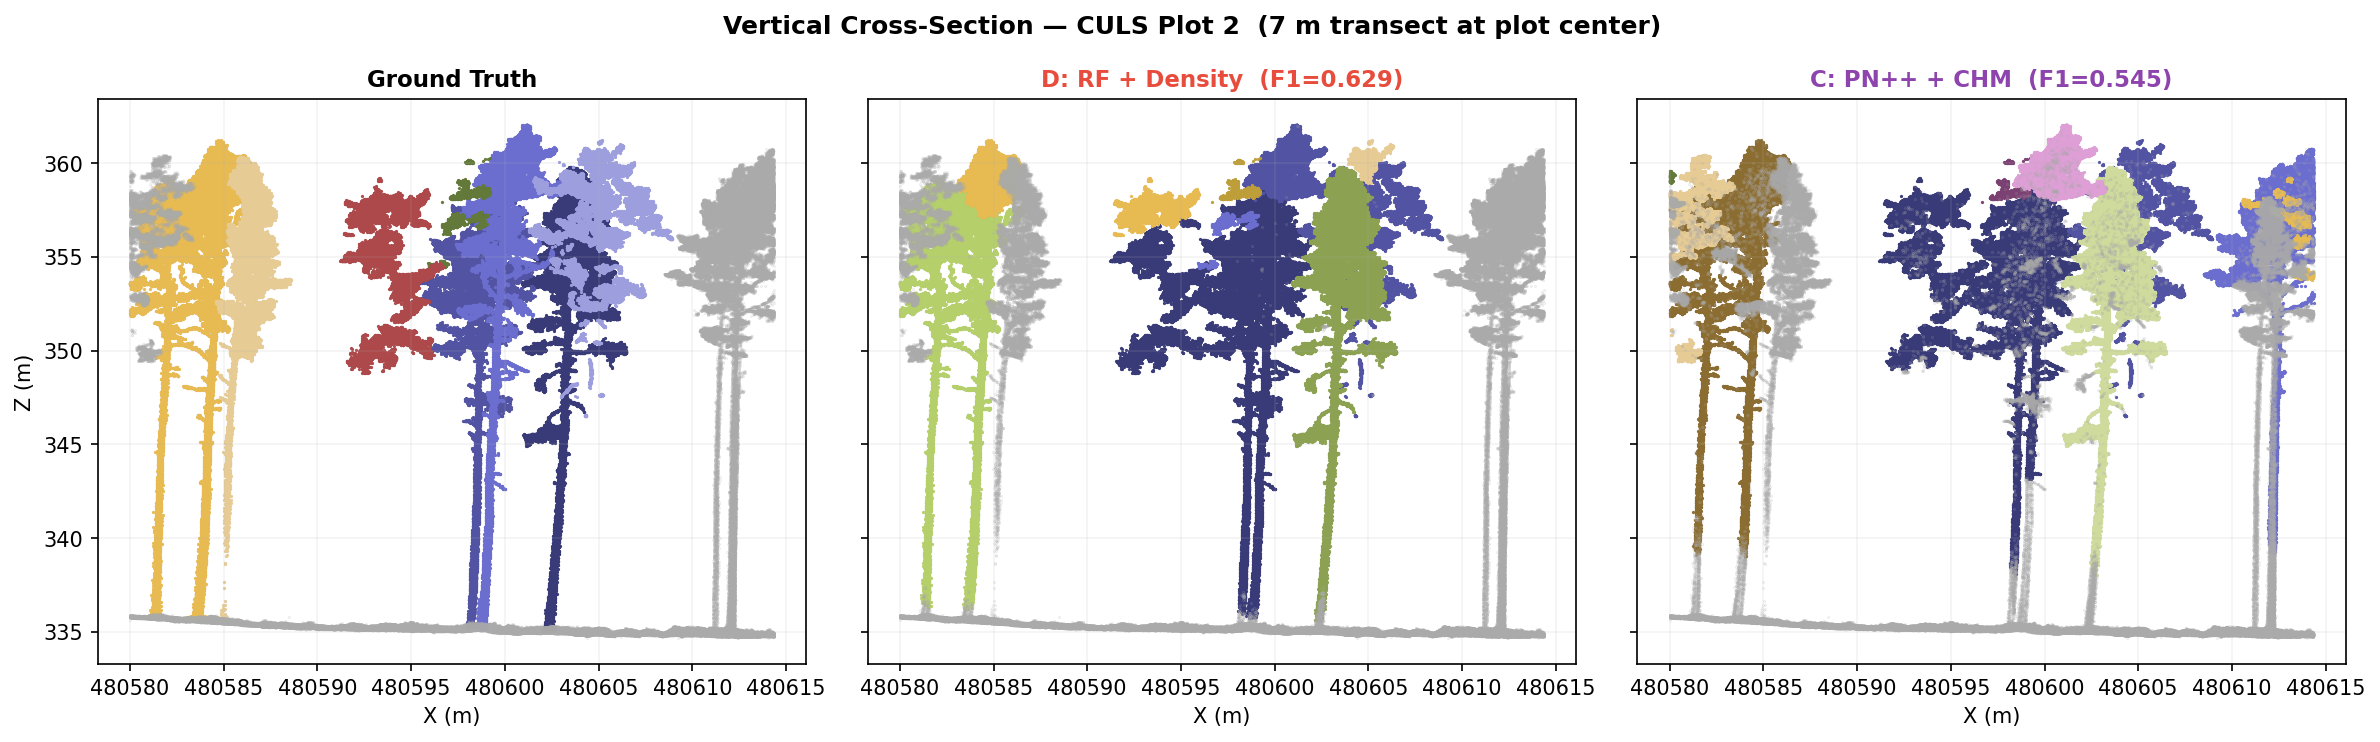
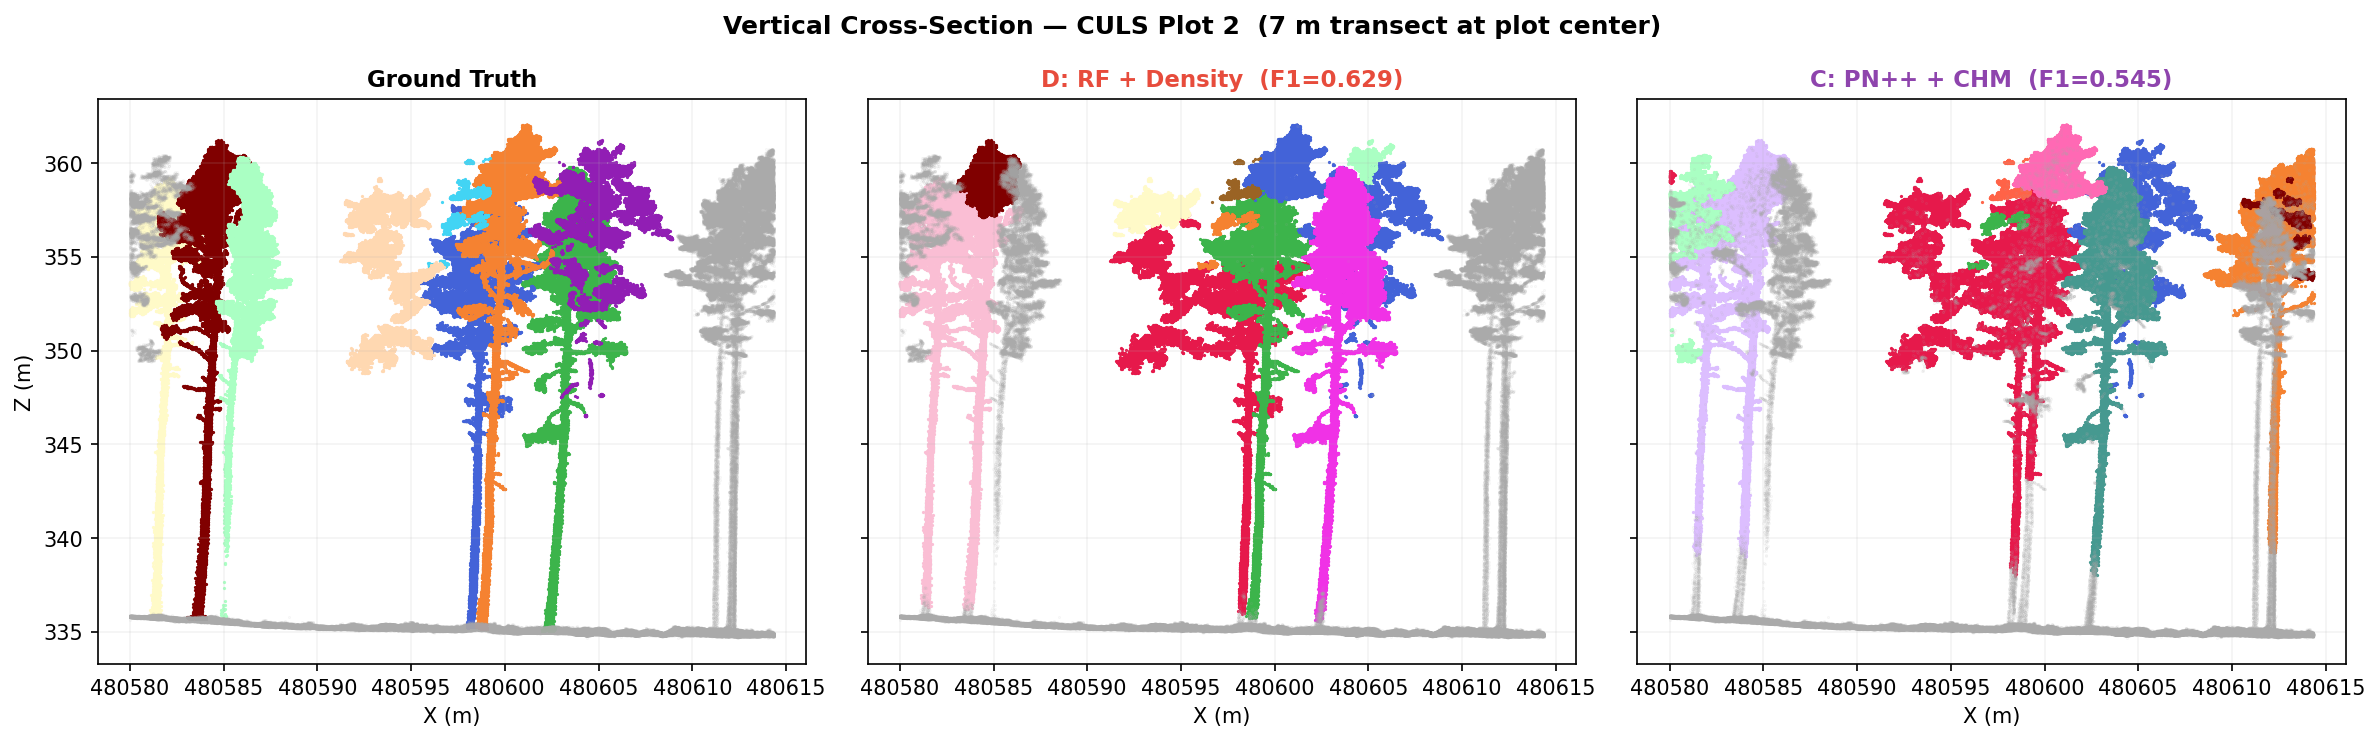
fix: replace scatter-based top-view with pixel render for fig_v1/v2/v5
Instance panels appeared grey due to three bugs:
- Millions of semi-transparent scatter points blending to grey
- ListedColormap called with integer indices > 1 (collapsing to first colors)
- Background grey scatter drawn on top of instance colors

Now uses a 2D pixel-based renderer (_render_topview) that assigns each
0.2m cell the color of the dominant instance. Also replaces CMAP_INST
with an explicit high-contrast 30-color palette (_BRIGHT_COLORS).

diff --git a/generate_visual_figures.py b/generate_visual_figures.py
@@ -47,8 +47,77 @@ M_COLORS = {
     "pointnet2_density": "#C0392B",
 }
 
-# Paleta discreta para instancias (hasta 30 árboles)
-CMAP_INST = plt.cm.get_cmap("tab20b", 25)
+# Paleta discreta brillante para instancias — colores saturados, fácilmente distinguibles
+_BRIGHT_COLORS = [
+    "#E6194B","#3CB44B","#4363D8","#F58231","#911EB4",
+    "#42D4F4","#F032E6","#BFEF45","#FABED4","#469990",
+    "#DCBEFF","#9A6324","#FFFAC8","#800000","#AAFFC3",
+    "#808000","#FFD8B1","#000075","#A9A9A9","#ffffff",
+    "#FF6347","#00CED1","#FFD700","#ADFF2F","#FF69B4",
+    "#20B2AA","#FF4500","#DA70D6","#7FFF00","#DC143C",
+]
+
+def _inst_color(i):
+    """Devuelve color brillante y distinto para el índice de instancia i."""
+    return _BRIGHT_COLORS[i % len(_BRIGHT_COLORS)]
+
+
+def _render_topview(x, y, instance_ids, res=0.25):
+    """
+    Crea una imagen 2D top-view coloreada por instancia.
+    Cada píxel toma el color de la instancia con más puntos en esa celda.
+    Fondo (id=0) → gris claro.  Retorna (img_rgba, extent).
+    """
+    x_min, x_max = x.min(), x.max()
+    y_min, y_max = y.min(), y.max()
+    nx = max(1, int(np.ceil((x_max - x_min) / res)))
+    ny = max(1, int(np.ceil((y_max - y_min) / res)))
+
+    # Índice de celda para cada punto
+    xi = np.clip(((x - x_min) / res).astype(int), 0, nx - 1)
+    yi = np.clip(((y - y_min) / res).astype(int), 0, ny - 1)
+    flat = yi * nx + xi
+
+    unique_ids = np.unique(instance_ids)
+    unique_ids = unique_ids[unique_ids > 0]
+
+    # Construye grid de conteos por (celda, instancia) — instancias ordenadas por tamaño desc
+    sizes = [(pid, int((instance_ids == pid).sum())) for pid in unique_ids]
+    sizes.sort(key=lambda s: -s[1])
+
+    # Imagen RGBA: empieza en gris claro (fondo)
+    BG = np.array([0.88, 0.88, 0.88, 1.0])
+    img = np.tile(BG, (ny, nx, 1))
+
+    # Para cada instancia (de mayor a menor), pintar sobre la imagen
+    # Usamos un grid de "quién ganó" inicializado en -1
+    winner = np.full(ny * nx, -1, dtype=int)
+    win_count = np.zeros(ny * nx, dtype=int)
+
+    for rank, (pid, _) in enumerate(sizes):
+        mask = instance_ids == pid
+        cells = flat[mask]
+        # Contar puntos de este pid por celda
+        cell_ids, counts = np.unique(cells, return_counts=True)
+        update = counts > win_count[cell_ids]
+        winner[cell_ids[update]] = rank
+        win_count[cell_ids[update]] = counts[update]
+
+    # Pintar imagen
+    for rank, (pid, _) in enumerate(sizes):
+        color_hex = _inst_color(rank)
+        r = int(color_hex[1:3], 16) / 255
+        g = int(color_hex[3:5], 16) / 255
+        b = int(color_hex[5:7], 16) / 255
+        cells_won = np.where(winner == rank)[0]
+        if len(cells_won) == 0:
+            continue
+        row = cells_won // nx
+        col = cells_won % nx
+        img[row, col] = [r, g, b, 1.0]
+
+    extent = [x_min, x_max, y_min, y_max]
+    return img, extent
 
 def load_npz(method, plot_name):
     """Carga predictions/method/plot_name_instances.npz desde ZIP."""
@@ -77,28 +146,23 @@ if HAS_LASPY:
     gt_ids = np.array(las["treeID"]).astype(int)
 
     show_methods = ["baseline", "rf", "rf_density", "pointnet2_density"]
-    fig, axes = plt.subplots(1, 5, figsize=(18, 4.2), sharex=True, sharey=True)
+    fig, axes = plt.subplots(1, 5, figsize=(18, 4.2))
     fig.suptitle("Instance Segmentation — CULS (Temperate Conifer, Best-Case Forest)",
                  fontsize=12, fontweight="bold", y=1.01)
 
     # Panel GT
     ax = axes[0]
+    img_gt, ext = _render_topview(x_all, y_all, gt_ids, res=0.2)
+    ax.imshow(img_gt, extent=ext, origin="lower", aspect="equal", interpolation="nearest")
     unique_gt = [g for g in np.unique(gt_ids) if g > 0]
-    for i, gid in enumerate(unique_gt):
-        mask = gt_ids == gid
-        ax.scatter(x_all[mask], y_all[mask], s=0.15,
-                   color=CMAP_INST(i % 25), rasterized=True)
-    mask0 = gt_ids == 0
-    ax.scatter(x_all[mask0], y_all[mask0], s=0.05, color="#CCCCCC",
-               alpha=0.3, rasterized=True)
     ax.set_title("Ground Truth", fontweight="bold")
-    ax.set_aspect("equal")
     ax.axis("off")
     ax.text(0.02, 0.02, f"{len(unique_gt)} trees", transform=ax.transAxes,
             fontsize=8, color="black", va="bottom",
             bbox=dict(boxstyle="round,pad=0.2", facecolor="white", alpha=0.8))
 
     # Paneles predicciones
+    df = pd.read_csv(RESULTS)
     for ax, method in zip(axes[1:], show_methods):
         data = load_npz(method, "CULS__plot_2_annotated")
         if data is None:
@@ -109,20 +173,9 @@ if HAS_LASPY:
         pred_ids = data["instance_ids"]
         unique_pred = [p for p in np.unique(pred_ids) if p > 0]
 
-        # Sort by size descending so biggest trees dominate color
-        sizes = [(pid, (pred_ids == pid).sum()) for pid in unique_pred]
-        sizes.sort(key=lambda s: -s[1])
+        img_pred, ext = _render_topview(x_all, y_all, pred_ids, res=0.2)
+        ax.imshow(img_pred, extent=ext, origin="lower", aspect="equal", interpolation="nearest")
 
-        for i, (pid, _) in enumerate(sizes):
-            mask = pred_ids == pid
-            ax.scatter(x_all[mask], y_all[mask], s=0.15,
-                       color=CMAP_INST(i % 25), rasterized=True)
-        mask0 = pred_ids == 0
-        ax.scatter(x_all[mask0], y_all[mask0], s=0.05,
-                   color="#CCCCCC", alpha=0.3, rasterized=True)
-
-        # Obtener F1 de CSV
-        df = pd.read_csv(RESULTS)
         row = df[(df["method"] == method) &
                  (df["plot"].str.contains("CULS__plot_2"))]
         f1 = row["f1"].values[0] if len(row) else 0.0
@@ -131,7 +184,6 @@ if HAS_LASPY:
 
         ax.set_title(M_LABELS[method], fontweight="bold",
                      color=M_COLORS[method])
-        ax.set_aspect("equal")
         ax.axis("off")
         ax.text(0.02, 0.02,
                 f"P={prec:.2f}  R={rec:.2f}\nF1={f1:.3f}  n={len(unique_pred)}",
@@ -157,26 +209,21 @@ if HAS_LASPY:
     gt_ids = np.array(las["treeID"]).astype(int)
 
     show_methods = ["baseline", "rf", "rf_density", "pointnet2_density"]
-    fig, axes = plt.subplots(1, 5, figsize=(18, 4.2), sharex=True, sharey=True)
+    fig, axes = plt.subplots(1, 5, figsize=(18, 4.2))
     fig.suptitle("Instance Segmentation — NIBIO (Boreal Conifer, Dense Canopy)",
                  fontsize=12, fontweight="bold", y=1.01)
 
     ax = axes[0]
     unique_gt = [g for g in np.unique(gt_ids) if g > 0]
-    for i, gid in enumerate(unique_gt):
-        mask = gt_ids == gid
-        ax.scatter(x_all[mask], y_all[mask], s=0.1,
-                   color=CMAP_INST(i % 25), rasterized=True)
-    mask0 = gt_ids == 0
-    ax.scatter(x_all[mask0], y_all[mask0], s=0.04,
-               color="#CCCCCC", alpha=0.2, rasterized=True)
+    img_gt, ext = _render_topview(x_all, y_all, gt_ids, res=0.2)
+    ax.imshow(img_gt, extent=ext, origin="lower", aspect="equal", interpolation="nearest")
     ax.set_title("Ground Truth", fontweight="bold")
-    ax.set_aspect("equal")
     ax.axis("off")
     ax.text(0.02, 0.02, f"{len(unique_gt)} trees", transform=ax.transAxes,
             fontsize=8, va="bottom",
             bbox=dict(boxstyle="round,pad=0.2", facecolor="white", alpha=0.8))
 
+    df = pd.read_csv(RESULTS)
     for ax, method in zip(axes[1:], show_methods):
         data = load_npz(method, "NIBIO__plot_17_annotated")
         if data is None:
@@ -185,17 +232,10 @@ if HAS_LASPY:
             continue
         pred_ids = data["instance_ids"]
         unique_pred = [p for p in np.unique(pred_ids) if p > 0]
-        sizes = [(pid, (pred_ids == pid).sum()) for pid in unique_pred]
-        sizes.sort(key=lambda s: -s[1])
-        for i, (pid, _) in enumerate(sizes):
-            mask = pred_ids == pid
-            ax.scatter(x_all[mask], y_all[mask], s=0.1,
-                       color=CMAP_INST(i % 25), rasterized=True)
-        mask0 = pred_ids == 0
-        ax.scatter(x_all[mask0], y_all[mask0], s=0.04,
-                   color="#CCCCCC", alpha=0.2, rasterized=True)
 
-        df = pd.read_csv(RESULTS)
+        img_pred, ext = _render_topview(x_all, y_all, pred_ids, res=0.2)
+        ax.imshow(img_pred, extent=ext, origin="lower", aspect="equal", interpolation="nearest")
+
         row = df[(df["method"] == method) &
                  (df["plot"].str.contains("NIBIO__plot_17"))]
         f1 = row["f1"].values[0] if len(row) else 0.0
@@ -204,7 +244,6 @@ if HAS_LASPY:
 
         ax.set_title(M_LABELS[method], fontweight="bold",
                      color=M_COLORS[method])
-        ax.set_aspect("equal")
         ax.axis("off")
         ax.text(0.02, 0.02,
                 f"P={prec:.2f}  R={rec:.2f}\nF1={f1:.3f}  n={len(unique_pred)}",
@@ -377,10 +416,10 @@ if HAS_LASPY:
         mask = mask_band & (gt_ids == gid)
         if mask.sum() > 0:
             ax.scatter(x_all[mask], z_all[mask], s=0.3,
-                       color=CMAP_INST(i % 25), rasterized=True)
+                       color=_inst_color(i), rasterized=True)
     mask0 = mask_band & (gt_ids == 0)
     ax.scatter(x_all[mask0], z_all[mask0], s=0.1,
-               color="#AAAAAA", alpha=0.3, rasterized=True)
+               color="#AAAAAA", alpha=0.15, rasterized=True)
     ax.set_title("Ground Truth", fontweight="bold")
     ax.set_xlabel("X (m)")
     ax.set_ylabel("Z (m)")
@@ -398,10 +437,10 @@ if HAS_LASPY:
             mask = mask_band & (pred_ids == pid)
             if mask.sum() > 0:
                 ax.scatter(x_all[mask], z_all[mask], s=0.3,
-                           color=CMAP_INST(i % 25), rasterized=True)
+                           color=_inst_color(i), rasterized=True)
         mask0 = mask_band & (pred_ids == 0)
         ax.scatter(x_all[mask0], z_all[mask0], s=0.1,
-                   color="#AAAAAA", alpha=0.3, rasterized=True)
+                   color="#AAAAAA", alpha=0.15, rasterized=True)
         df = pd.read_csv(RESULTS)
         row = df[(df["method"] == method) &
                  (df["plot"].str.contains("CULS__plot_2"))]